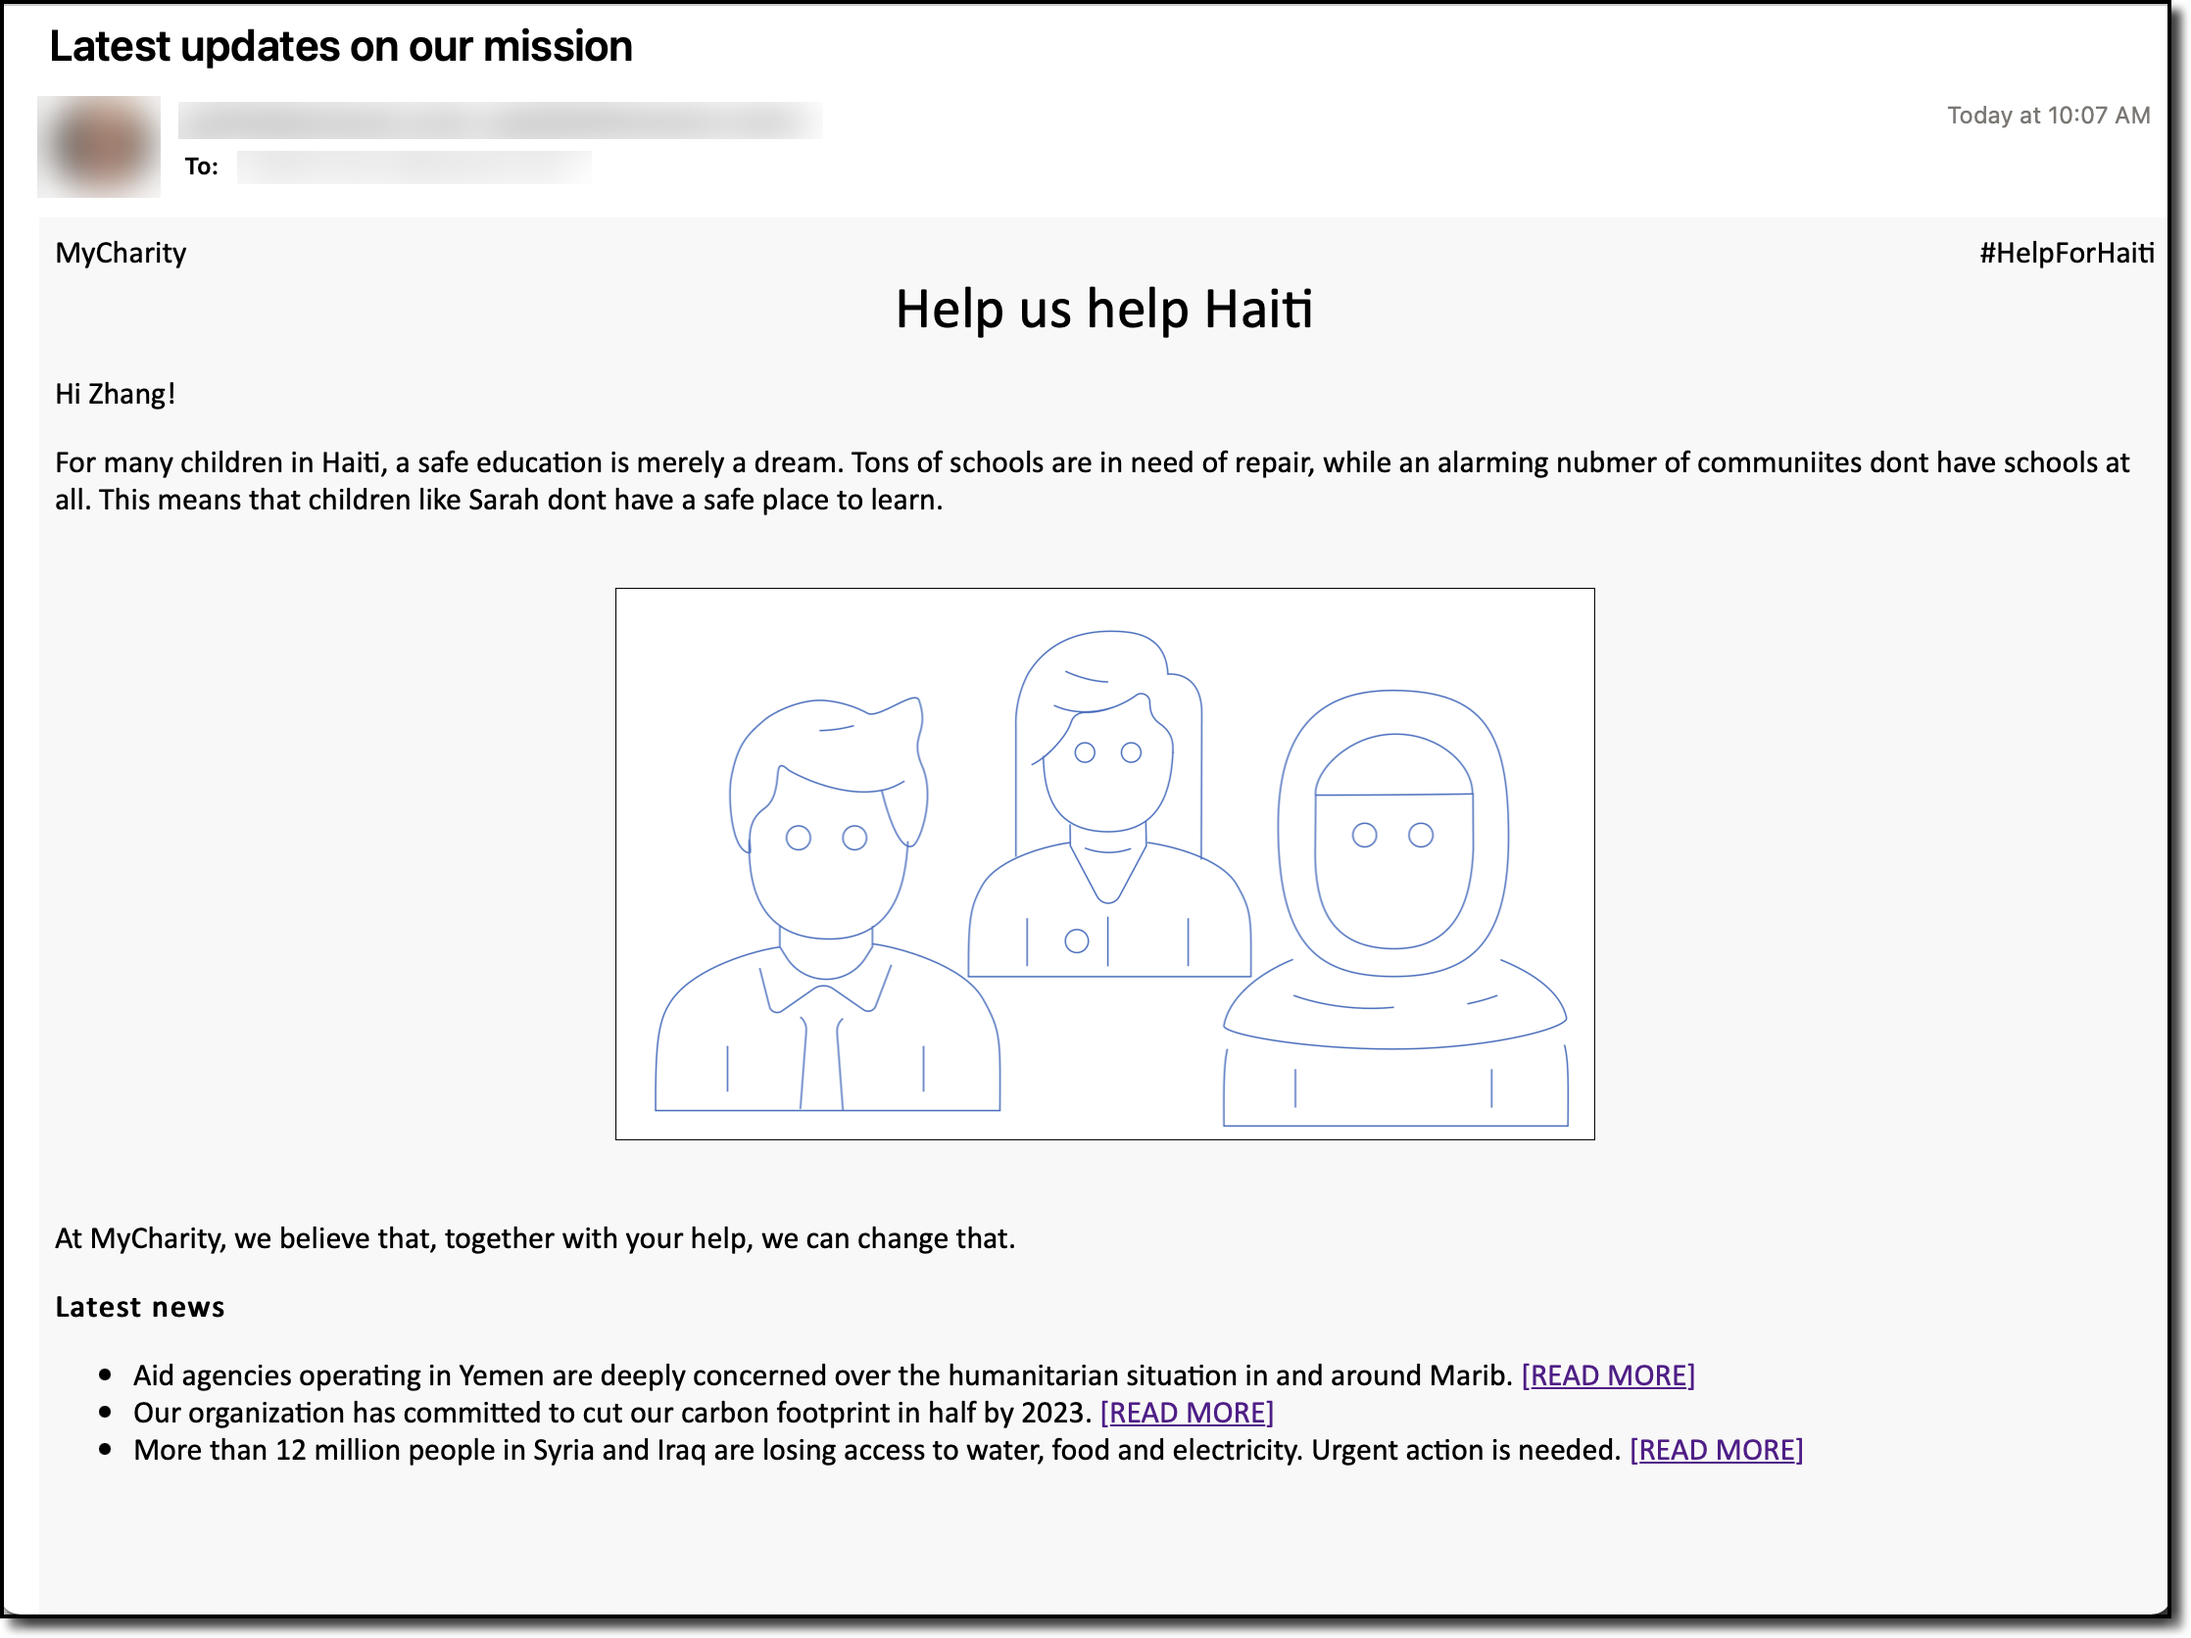
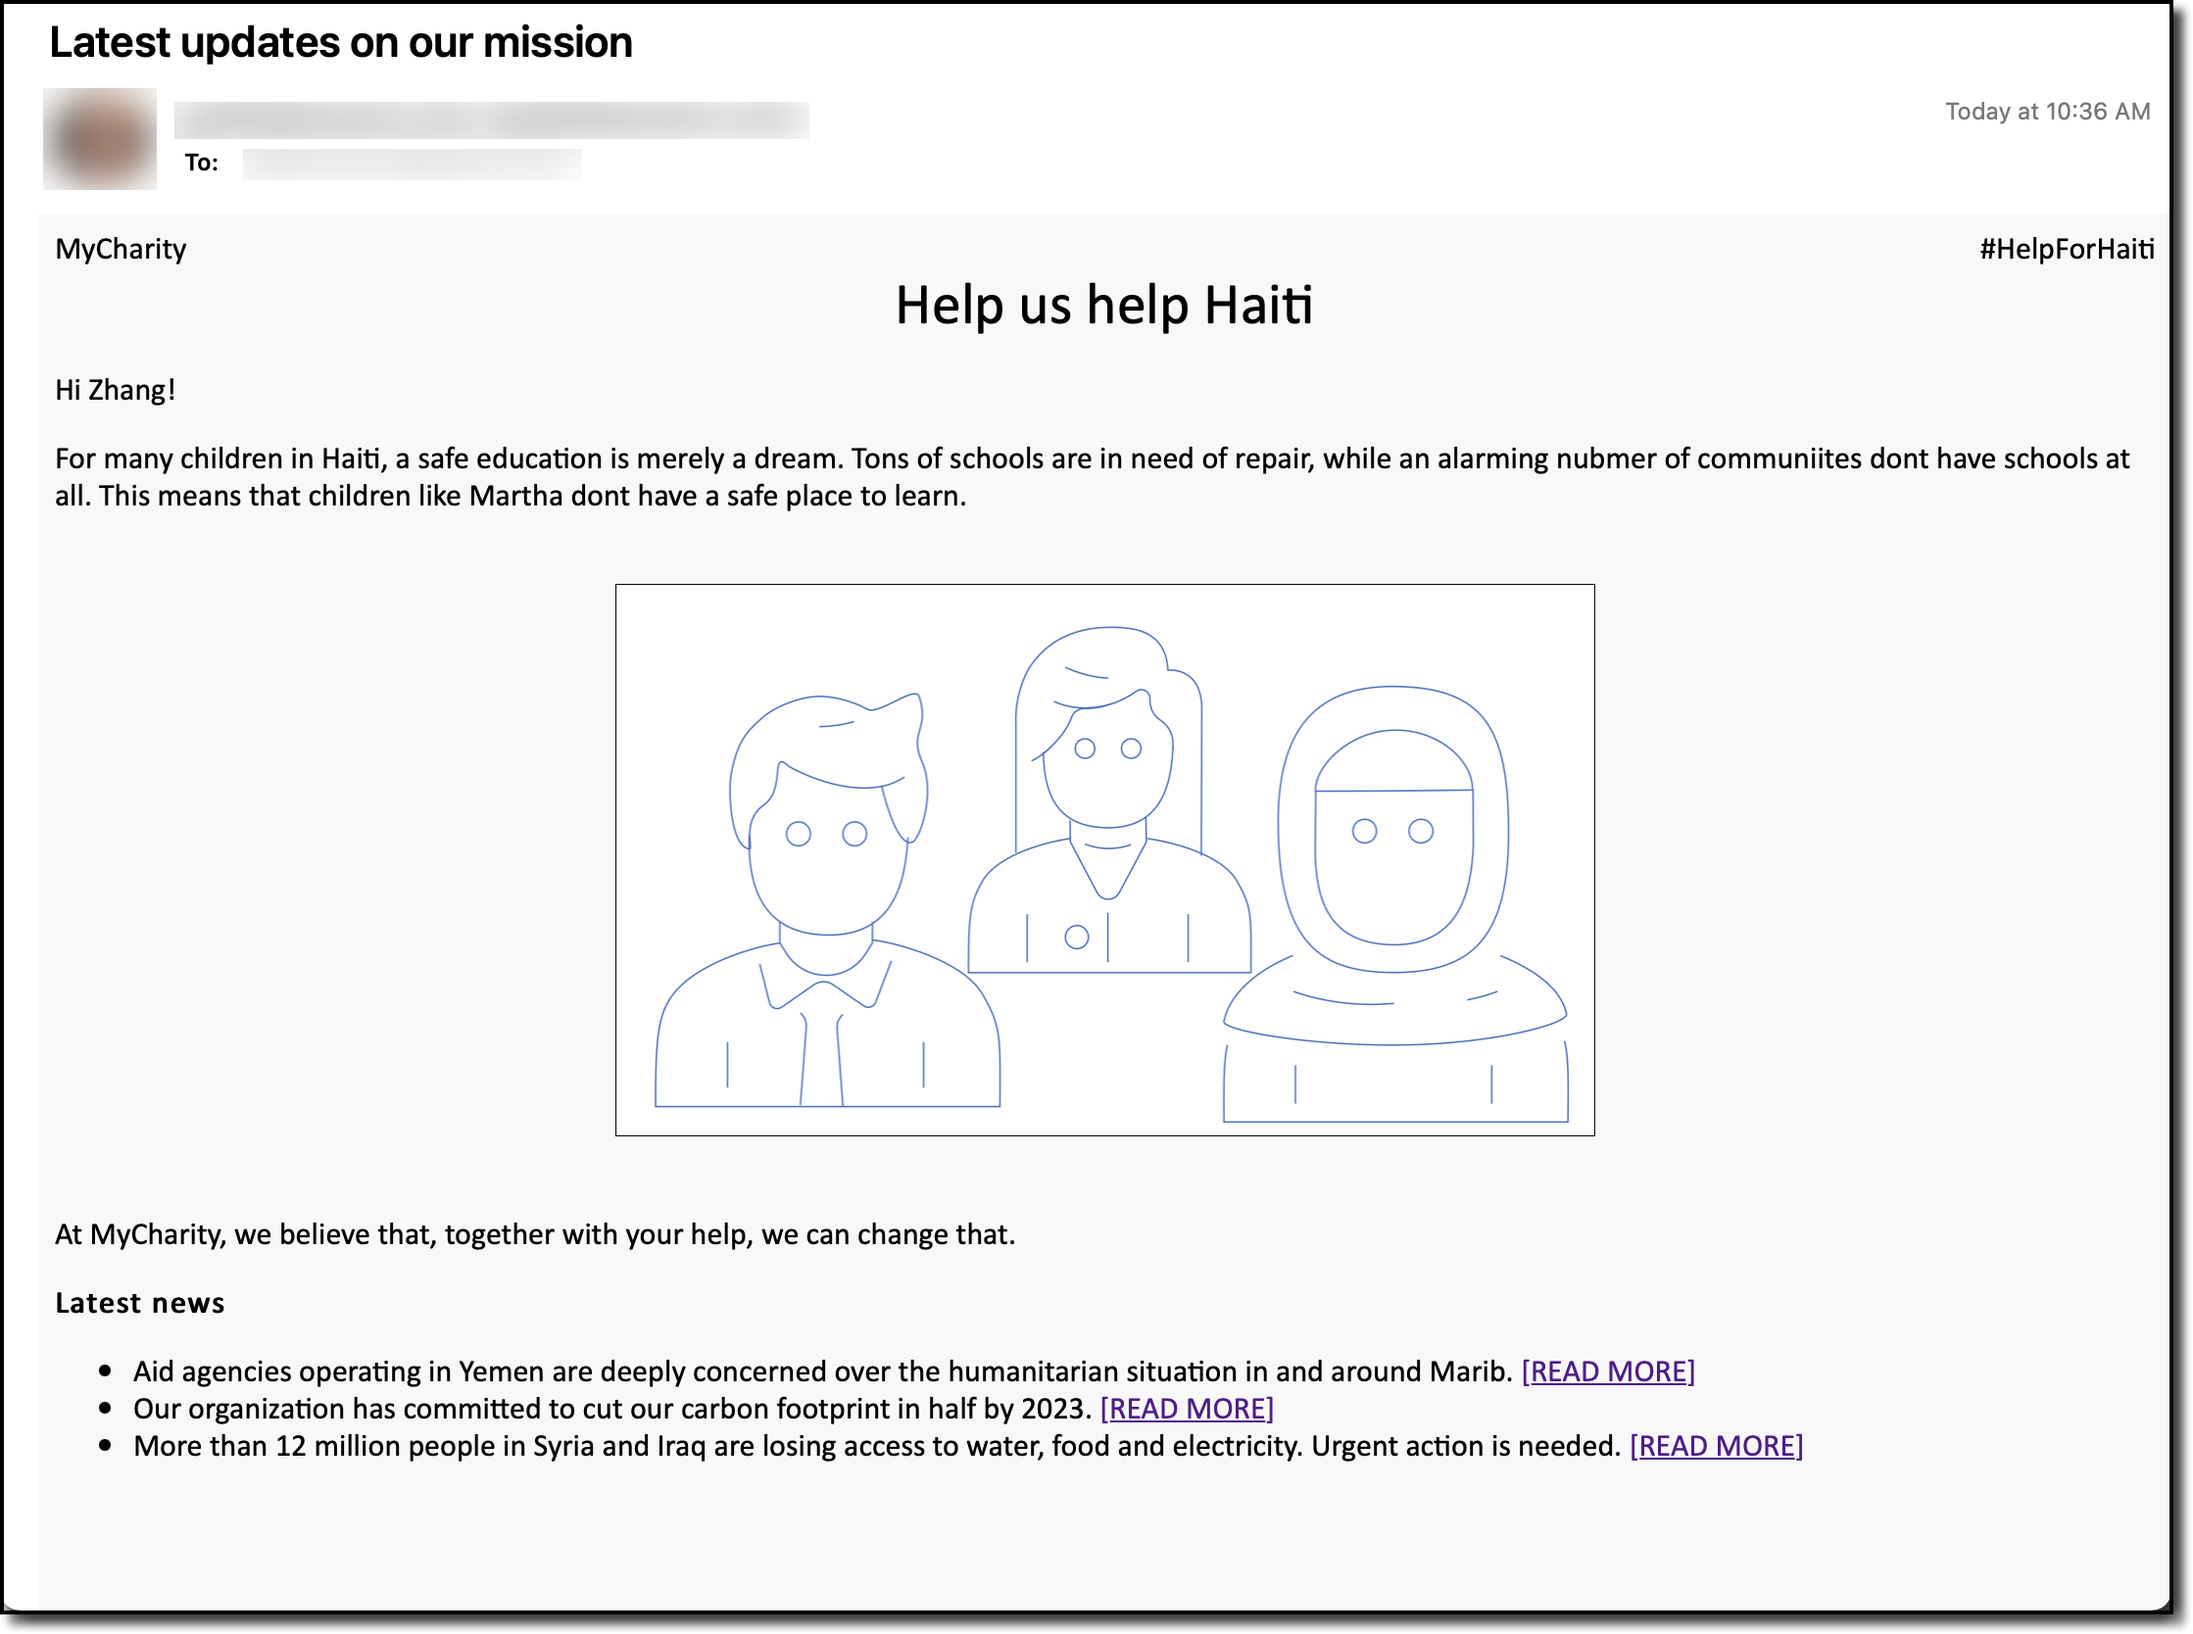
Minor bug fix

diff --git a/Targeted_Messaging_With_Pinpoint_and_Personalize/create_pinpoint_campaign.py b/Targeted_Messaging_With_Pinpoint_and_Personalize/create_pinpoint_campaign.py
@@ -45,10 +45,10 @@ recommenderId = response['RecommenderConfigurationResponse']["Id"]
 response = client.create_email_template(
     EmailTemplateRequest={
         'DefaultSubstitutions': '{"Recommendations.FriendlyRecommendation": ""}',
-        'HtmlPart': '<!DOCTYPE html><html lang="en"><head><meta http-equiv="Content-Type" content="text/html; charset=utf-8"></head><body style="font-family: Arial, Helvetica, sans-serif; background-color: #f9f8f8;"><div><div style="float:left;">MyCharity</div><div style="float:right">#HelpForHaiti</div></div><div style="clear:both;font-size:30px;text-align:center">Help us help Haiti</div><p style="clear:both;">Hi {{User.UserAttributes.FirstName}}! </p><p>For many children in Haiti, a safe education is merely a dream. Tons of schools are in need of repair, while an alarming nubmer of communiites don''t have schools at all. This means that children like Sarah don''t have a safe place to learn.</p><div style="clear:both; padding:20px; display:block; text-align: center;"> <img src="https://raw.githubusercontent.com/aws-samples/nonprofit-samples/main/Targeted_Messaging_With_Pinpoint_and_Personalize/support/sample_image.png" width="500"/> </div><p>At MyCharity, we believe that, together with your help, we can change that. </p><p>{{Recommendations.FriendlyRecommendation}}</p></body></html>',
+        'HtmlPart': '<!DOCTYPE html><html lang="en"><head><meta http-equiv="Content-Type" content="text/html; charset=utf-8"></head><body style="font-family: Arial, Helvetica, sans-serif; background-color: #f9f8f8;"><div><div style="float:left;">MyCharity</div><div style="float:right">#HelpForHaiti</div></div><div style="clear:both;font-size:30px;text-align:center">Help us help Haiti</div><p style="clear:both;">Hi {{User.UserAttributes.FirstName}}! </p><p>For many children in Haiti, a safe education is merely a dream. Tons of schools are in need of repair, while an alarming nubmer of communiites don''t have schools at all. This means that children like Martha don''t have a safe place to learn.</p><div style="clear:both; padding:20px; display:block; text-align: center;"> <img src="https://raw.githubusercontent.com/aws-samples/nonprofit-samples/main/Targeted_Messaging_With_Pinpoint_and_Personalize/support/sample_image.png" width="500"/> </div><p>At MyCharity, we believe that, together with your help, we can change that. </p><p>{{Recommendations.FriendlyRecommendation}}</p></body></html>',
         'RecommenderId': recommenderId,
         'Subject': 'Latest updates on our mission',
-        'TextPart': 'Hi {{User.UserAttributes.FirstName}}! For many children in Haiti, a safe education is merely a dream. Tons of schools are in need of repair, while an alarming nubmer of communiites don''t have schools at all. This means that children like Sarah don''t have a safe place to learn. At MyCharity, we believe that, together with your help, we can change that. {{Recommendations.FriendlyRecommendation}}'
+        'TextPart': 'Hi {{User.UserAttributes.FirstName}}! For many children in Haiti, a safe education is merely a dream. Tons of schools are in need of repair, while an alarming nubmer of communities don''t have schools at all. This means that children like Martha don''t have a safe place to learn. At MyCharity, we believe that, together with your help, we can change that. {{Recommendations.FriendlyRecommendation}}'
     },
     TemplateName=stack_name + "_template"
 )
